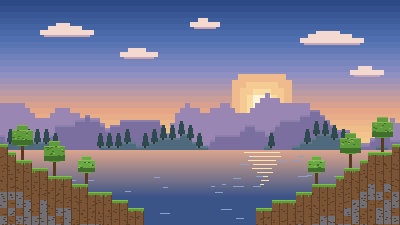
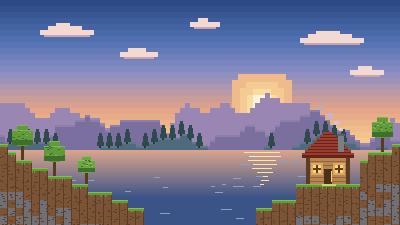
fix(ui): council round 2 polish
Cabin as the hero's focal point, one-line hero subtitle, inset
installation picker, muted PLAYING state, a Java & performance section
in the editor, consistent dialog headers and a clearer crash message.

diff --git a/src/ui/mod.rs b/src/ui/mod.rs
@@ -190,8 +190,8 @@ impl Launcher {
                     Ok(status) => show_error(
                         &app,
                         format!(
-                            "Minecraft closed with an error ({status}).\nSend {} to the server admin.",
-                            log.display()
+                            "Minecraft closed with an error ({status}).\n\nSend this file from the logs folder to the server admin:\n{}",
+                            log.file_name().unwrap_or_default().display()
                         ),
                     ),
                     Err(error) => show_error(&app, format!("{error:#}")),

diff --git a/examples/screenshots.rs b/examples/screenshots.rs
@@ -80,7 +80,7 @@ fn main() -> Result<(), Box<dyn std::error::Error>> {
     shoot("08-error", &|store| {
         store.set_screen(Screen::Error);
         store.set_error_message(
-            "Minecraft closed with an error (exit status: 1).\nSend ~/.local/share/ekipamc/logs/game-output.log to the server admin."
+            "Minecraft closed with an error (exit status: 1).\n\nSend this file from the logs folder to the server admin:\ngame-output.log"
                 .into(),
         );
         store.set_error_open(true);
